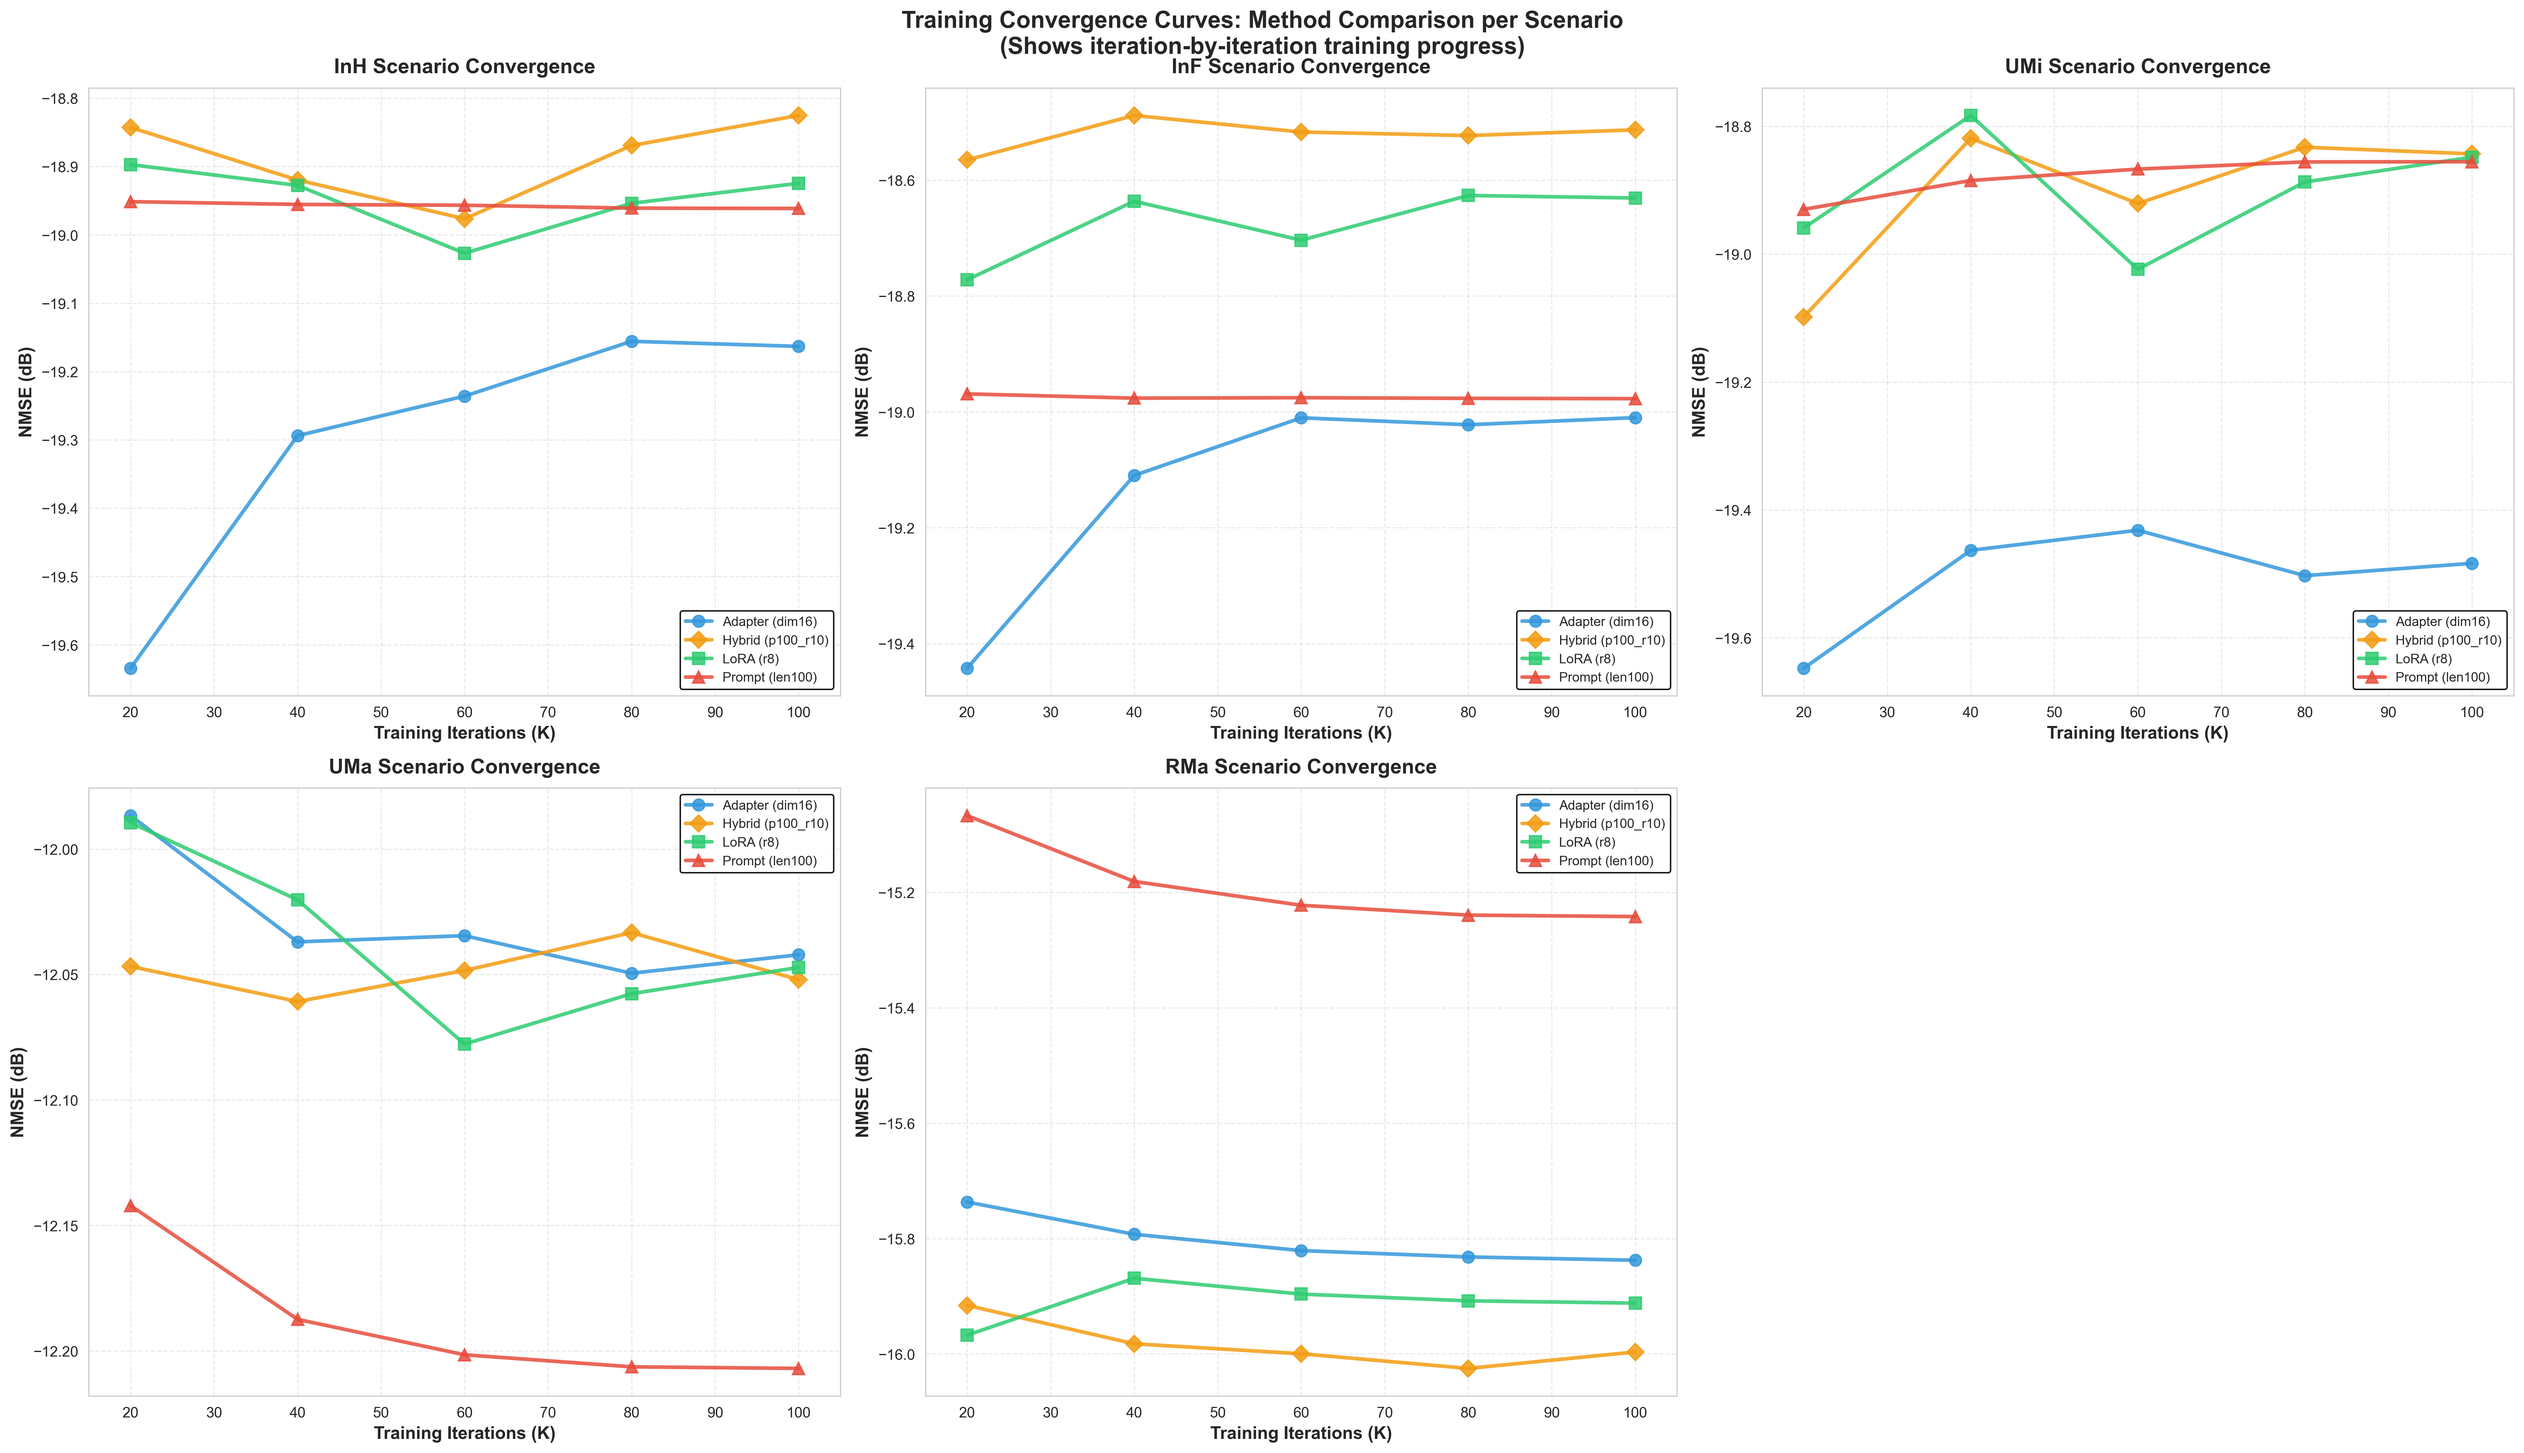
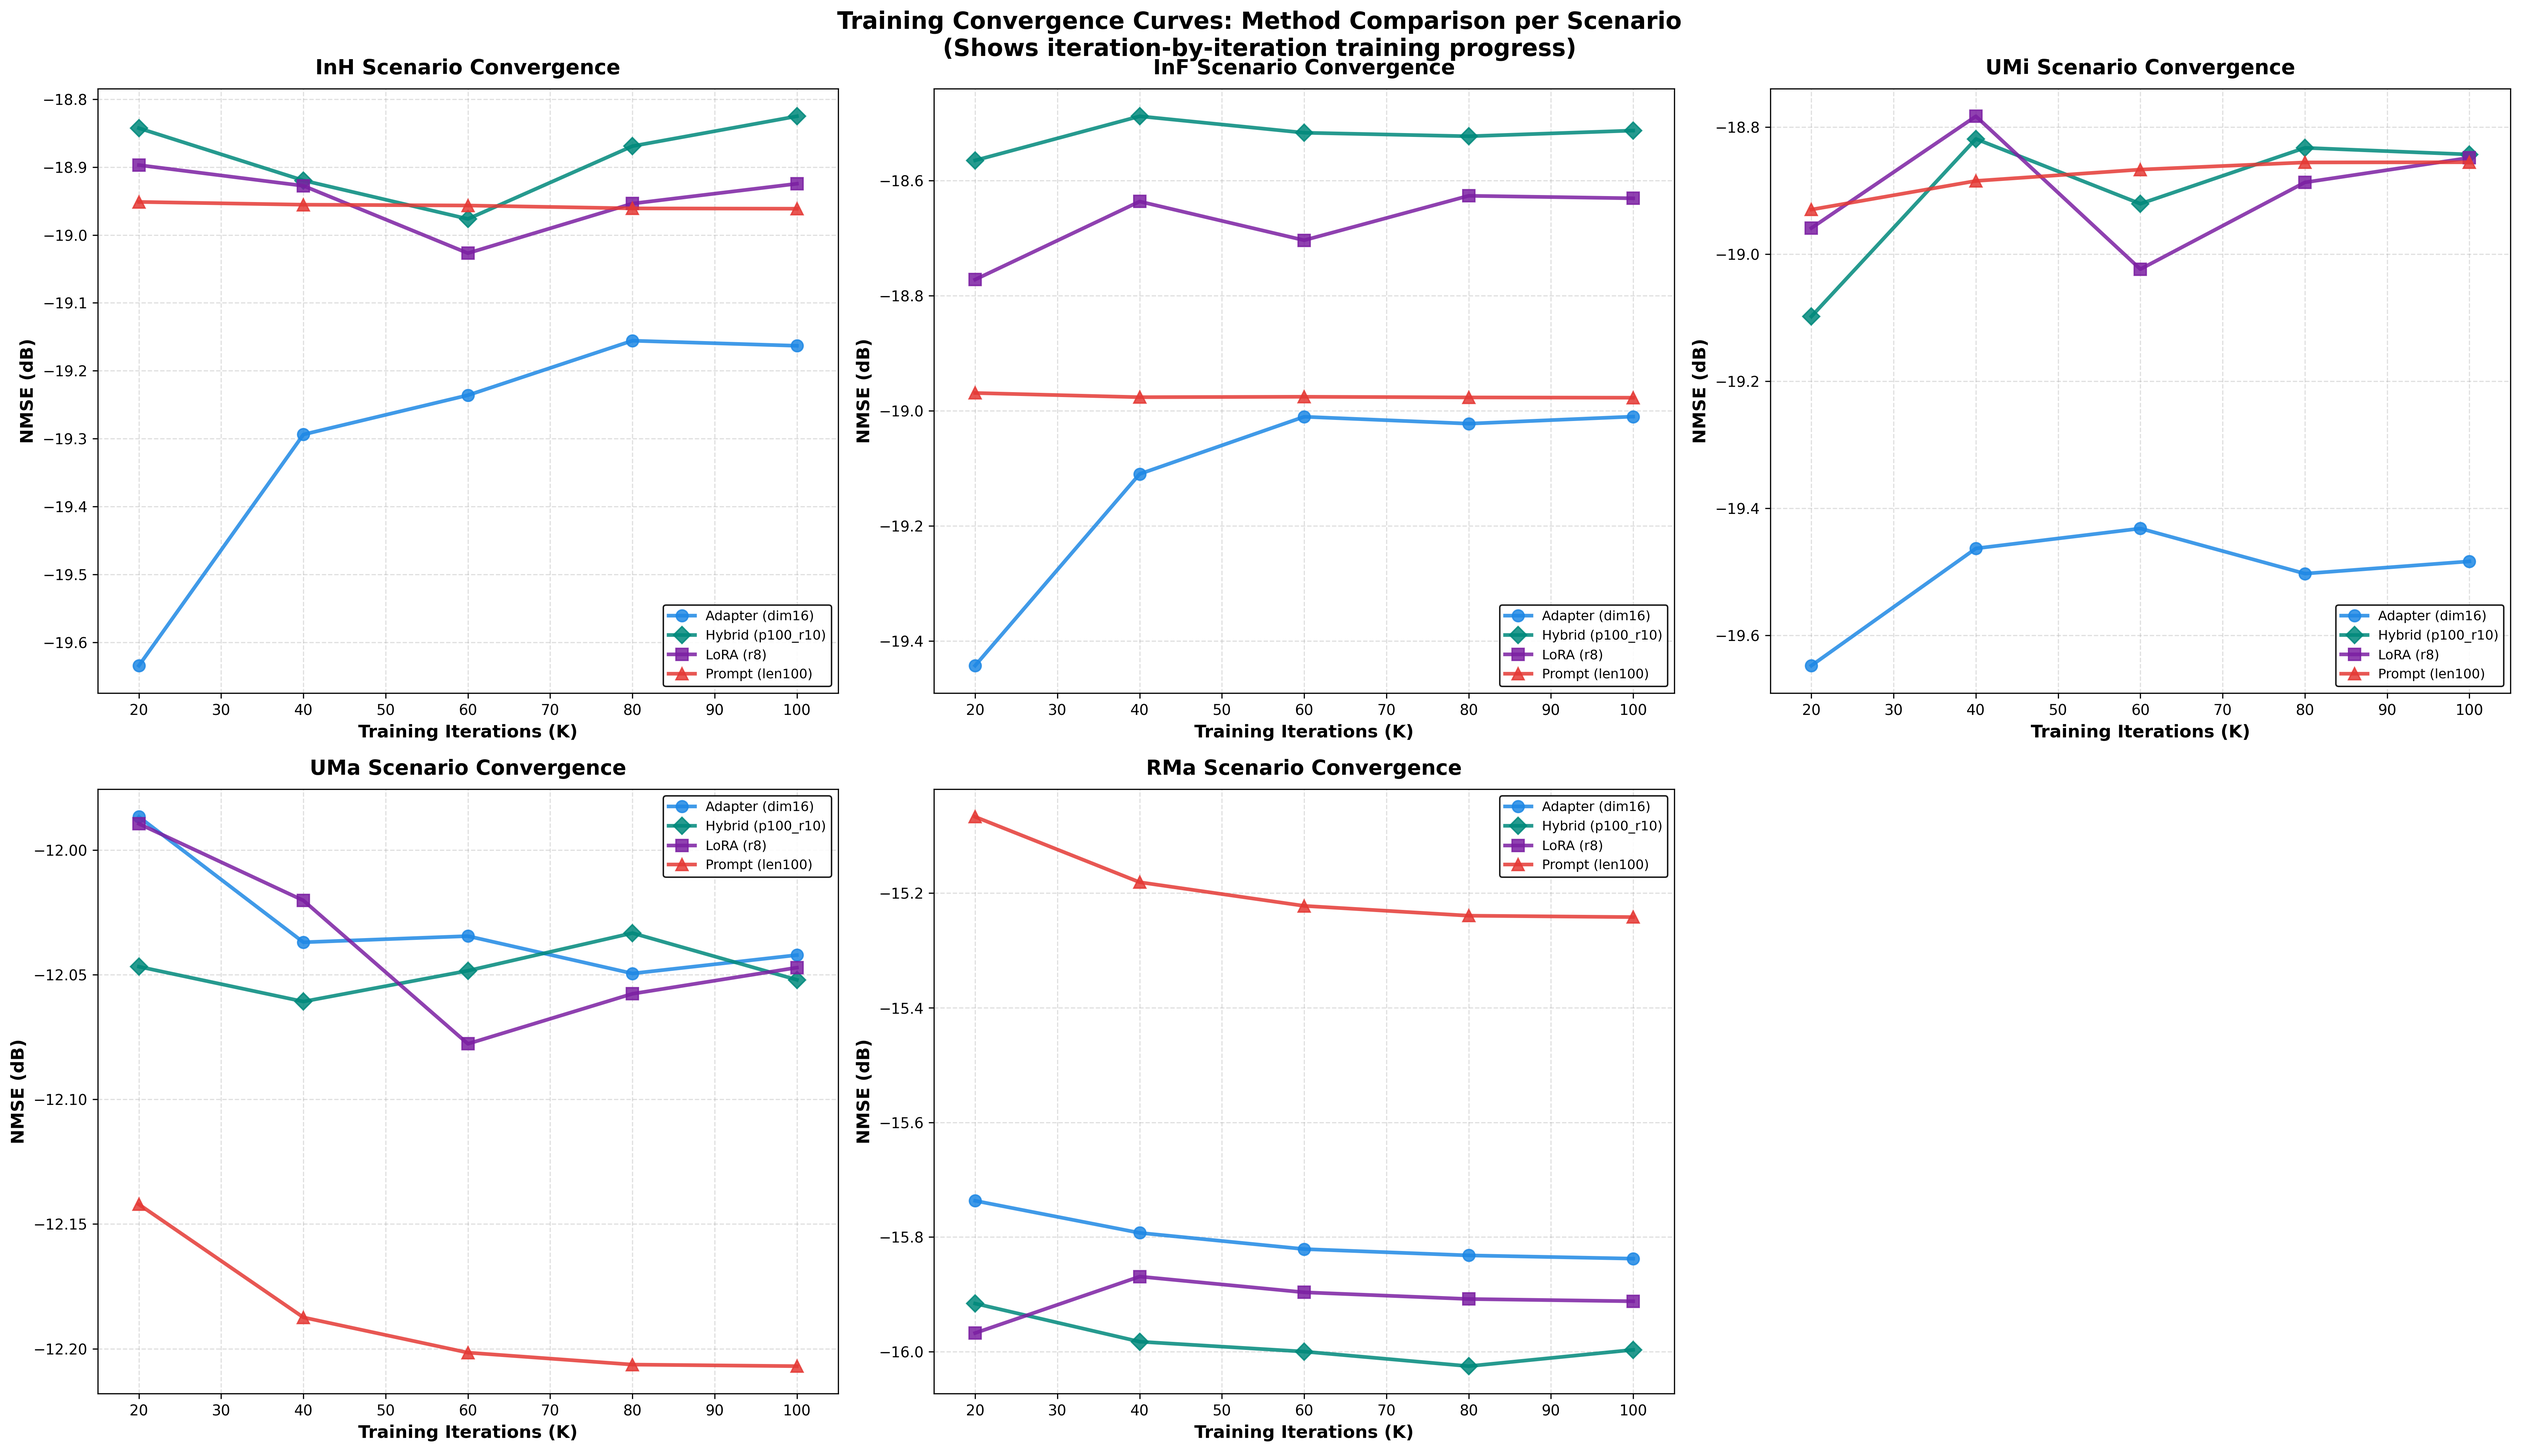
iEEEOJCOMS_251102_1

diff --git a/pareto_analysis.py b/pareto_analysis.py
@@ -525,18 +525,12 @@ class ParetoAnalyzer:
         print(f"[OK] Saved {heatmap_path}")
         plt.close()
 
-        # 2. Grouped Bar Chart: 방법별 전이학습 효과 (Base 대비 개선도)
-        print("[2/2] Generating transfer learning effectiveness plots...")
-
-        # seaborn 스타일 적용
-        sns.set_style("whitegrid")
+        # 2. Simplified Transfer Effectiveness: In-domain vs Best Cross-domain
+        print("[2/2] Generating simplified transfer effectiveness plots...")
 
         methods = ['Adapter', 'LoRA', 'Prompt', 'Hybrid']
-        fig, axes = plt.subplots(2, 2, figsize=(22, 18))
+        fig, axes = plt.subplots(2, 2, figsize=(20, 14))
         axes = axes.flatten()
-
-        # 환경별 색상 팔레트 (일관성 있는 컬러)
-        env_colors = sns.color_palette("husl", len(test_envs))
 
         for idx, method in enumerate(methods):
             ax = axes[idx]
@@ -548,54 +542,67 @@ class ParetoAnalyzer:
                 ax.set_title(f'{method} - No Data', fontsize=15, fontweight='bold')
                 continue
 
-            # 전이학습 환경별로 그룹화
-            train_envs = sorted(set(r['train_env'] for r in method_results))
+            # 각 테스트 환경별 데이터 수집
+            x_labels = []
+            in_domain_improvements = []
+            best_cross_domain_improvements = []
 
-            # Bar 위치 계산
-            x = np.arange(len(train_envs))
-            width = 0.15
-
-            # 테스트 환경별로 막대 그리기 (Base 대비 개선도)
-            for i, test_env in enumerate(test_envs):
-                improvement_values = []
+            for test_env in test_envs:
+                x_labels.append(test_env)
                 base_nmse = base_performance.get(test_env, 0)
 
-                for train_env in train_envs:
-                    # 해당 train_env에서 test_env로 테스트한 결과 찾기
-                    matching = [r for r in method_results
-                               if r['train_env'] == train_env and r['test_env'] == test_env]
-                    if matching:
-                        # 같은 train_env의 여러 config 중 최고 성능
-                        best_nmse = min(r['nmse_db'] for r in matching)
-                        # Base 대비 개선도 계산
-                        improvement = best_nmse - base_nmse
-                        improvement_values.append(improvement)
-                    else:
-                        improvement_values.append(np.nan)
+                # 1) In-domain: train_env == test_env
+                in_domain = [r for r in method_results
+                            if r['train_env'] == test_env and r['test_env'] == test_env]
+                if in_domain:
+                    best_in_domain_nmse = min(r['nmse_db'] for r in in_domain)
+                    in_domain_improvements.append(best_in_domain_nmse - base_nmse)
+                else:
+                    in_domain_improvements.append(np.nan)
 
-                ax.bar(x + i * width, improvement_values, width,
-                      label=f'Test: {test_env}',
-                      color=env_colors[i],
-                      alpha=0.85,
-                      edgecolor='black',
-                      linewidth=0.5)
+                # 2) Cross-domain: train_env != test_env 중 최고
+                cross_domain = [r for r in method_results
+                               if r['train_env'] != test_env and r['test_env'] == test_env]
+                if cross_domain:
+                    best_cross_domain_nmse = min(r['nmse_db'] for r in cross_domain)
+                    best_cross_domain_improvements.append(best_cross_domain_nmse - base_nmse)
+                else:
+                    best_cross_domain_improvements.append(np.nan)
 
-            # 0선 강조 (Base 성능 기준선)
-            ax.axhline(y=0, color='black', linestyle='-', alpha=0.8, linewidth=1.5)
+            # 막대 그래프
+            x = np.arange(len(x_labels))
+            width = 0.35
 
-            ax.set_xlabel('Training Environment', fontsize=12, fontweight='bold')
-            ax.set_ylabel('Improvement vs Base (dB)', fontsize=12, fontweight='bold')
-            ax.set_title(f'{method} Transfer Learning Effectiveness\n(Negative = Better than Base)',
-                        fontsize=15, fontweight='bold', pad=15)
-            ax.set_xticks(x + width * 2)
-            ax.set_xticklabels(train_envs, fontsize=11)
-            ax.legend(fontsize=10, loc='best', framealpha=0.9, edgecolor='black')
-            ax.grid(True, axis='y', alpha=0.4, linestyle='--')
+            ax.bar(x - width/2, in_domain_improvements, width,
+                  label='In-domain (train=test)',
+                  color='#2E7D32',  # 진한 초록
+                  alpha=0.85,
+                  edgecolor='black',
+                  linewidth=1)
 
-            # Y축 범위 설정 (개선도 기준)
+            ax.bar(x + width/2, best_cross_domain_improvements, width,
+                  label='Best Cross-domain (train≠test)',
+                  color='#1976D2',  # 진한 파랑
+                  alpha=0.85,
+                  edgecolor='black',
+                  linewidth=1)
+
+            # 0선 강조 (Base 기준선)
+            ax.axhline(y=0, color='black', linestyle='--', linewidth=2, alpha=0.8)
+
+            ax.set_xlabel('Test Environment', fontsize=13, fontweight='bold')
+            ax.set_ylabel('Improvement vs Base (dB)', fontsize=13, fontweight='bold')
+            ax.set_title(f'{method}: In-domain vs Cross-domain Transfer\n(Negative = Better)',
+                        fontsize=14, fontweight='bold', pad=15)
+            ax.set_xticks(x)
+            ax.set_xticklabels(x_labels, fontsize=12)
+            ax.legend(fontsize=11, loc='best', framealpha=0.95, edgecolor='black')
+            ax.grid(True, axis='y', alpha=0.3, linestyle='--')
+
+            # Y축 범위 설정
             ax.set_ylim(-2.5, 2.5)
 
-        plt.suptitle('Parameter-Efficient Transfer Learning: Improvement vs Base Model\n(Negative values indicate better performance than Base)',
+        plt.suptitle('Transfer Learning Effectiveness: In-domain vs Cross-domain Performance\n(Best configuration per scenario)',
                     fontsize=16, fontweight='bold')
         plt.tight_layout()
 
@@ -678,16 +685,18 @@ class ParetoAnalyzer:
         """수렴 곡선 그래프 생성 - 시나리오별로 방법 비교"""
         print(f"\nGenerating convergence curves{' (' + save_suffix + ')' if save_suffix else ''}...")
 
+        import matplotlib.colors as mcolors
+
         # 2x3 레이아웃 (5개 시나리오 + 1개 빈 공간)
         fig, axes = plt.subplots(2, 3, figsize=(24, 14))
         axes = axes.flatten()
 
-        # 방법별 색상 및 마커
+        # 방법별 예쁜 색상 (Material Design + 가독성 고려)
         method_colors = {
-            'Adapter': '#3498db',
-            'LoRA': '#2ecc71',
-            'Prompt': '#e74c3c',
-            'Hybrid': '#f39c12'
+            'Adapter': '#1E88E5',  # 밝은 파랑
+            'LoRA': '#7B1FA2',     # 보라
+            'Prompt': '#E53935',   # 산호 빨강
+            'Hybrid': '#00897B'    # 청록
         }
         method_markers = {
             'Adapter': 'o',
@@ -703,37 +712,41 @@ class ParetoAnalyzer:
             # 해당 시나리오의 데이터 필터링
             scenario_data = [r for r in iteration_results if r['scenario'] == scenario]
 
-            # 방법별로 수렴 곡선 그리기
+            # 방법별로 수렴 곡선 그리기 (각 방법의 최고 성능 config만)
             for method in sorted(set(r['method'] for r in scenario_data)):
                 method_models = [r for r in scenario_data if r['method'] == method]
 
-                if method_models:
-                    model = method_models[0]  # 샘플 config 하나
+                if not method_models:
+                    continue
 
-                    # X: Iteration, Y: NMSE
-                    x_vals = []
-                    y_vals = []
+                # 해당 시나리오에서 Final 성능이 가장 좋은 config 선택
+                best_model = min(method_models, key=lambda x: x.get('final', float('inf')))
 
-                    # Iteration 체크포인트들
-                    for iter_num in iterations:
-                        key = f'iter_{iter_num}'
-                        if key in model:
-                            x_vals.append(iter_num / 1000)  # K 단위로 변환
-                            y_vals.append(model[key])
+                # X: Iteration, Y: NMSE
+                x_vals = []
+                y_vals = []
 
-                    # Final 추가 (100K iteration)
-                    if 'final' in model:
-                        x_vals.append(100)  # Final은 100K
-                        y_vals.append(model['final'])
+                # Iteration 체크포인트들
+                for iter_num in iterations:
+                    key = f'iter_{iter_num}'
+                    if key in best_model:
+                        x_vals.append(iter_num / 1000)  # K 단위로 변환
+                        y_vals.append(best_model[key])
 
-                    if x_vals and len(x_vals) > 1:  # 최소 2개 이상의 포인트가 있을 때만 그리기
-                        ax.plot(x_vals, y_vals,
-                               marker=method_markers[method],
-                               color=method_colors[method],
-                               label=f'{method} ({model["config"]})',
-                               linewidth=2.5,
-                               markersize=8,
-                               alpha=0.85)
+                # Final 추가 (100K iteration)
+                if 'final' in best_model:
+                    x_vals.append(100)  # Final은 100K
+                    y_vals.append(best_model['final'])
+
+                if x_vals and len(x_vals) >= 2:
+                    ax.plot(x_vals, y_vals,
+                           marker=method_markers[method],
+                           color=method_colors[method],
+                           label=f'{method} ({best_model["config"]})',
+                           linewidth=2.5,
+                           markersize=8,
+                           alpha=0.85,
+                           zorder=3)
 
             # 축 설정
             ax.set_xlabel('Training Iterations (K)', fontsize=12, fontweight='bold')
